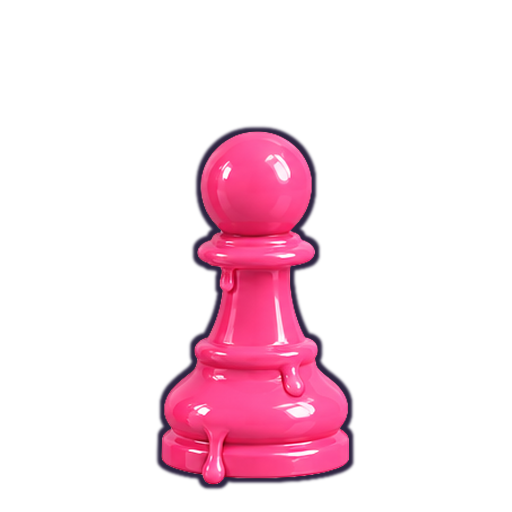
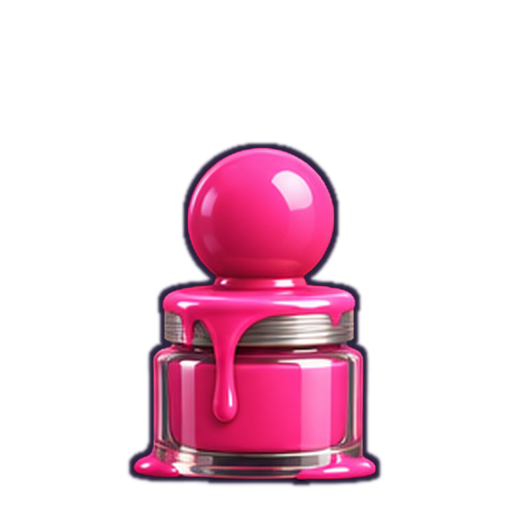
Swap in the Paint Supplies pieces
Alex picked the Paint Supplies look over the glossy toy pieces: a paint
tube king, paint bottle queen, paint can rook, brush bishop, roller
knight and paint pot pawn. Cut out from the ElevenLabs sheet with
transparent backgrounds, same ink rim and baseline as before, with a
little less overhang so wide pieces don't crowd the square above.

Claude-Session: https://claude.ai/code/session_01QR38i3U6tiDZZQVWzgcRB5

Changed region(s): [[0.25, 0.2188, 0.75, 0.9688]]

diff --git a/apps/mobile/App.tsx b/apps/mobile/App.tsx
@@ -16,7 +16,7 @@ const C = {
   dark: '#E6DDF7',
 };
 
-// Glossy vinyl toy pieces: lime for Slime (w), pink for Goo (b).
+// Paint Supplies pieces: lime for Slime (w), pink for Goo (b).
 const PIECE_ART = {
   w: {
     k: require('./assets/pieces/wking.png'),
@@ -250,7 +250,7 @@ const s = StyleSheet.create({
   target: { position: 'absolute', width: '30%', aspectRatio: 1, borderRadius: 999, backgroundColor: C.ink, opacity: 0.35 },
   targetCapture: { width: '86%', backgroundColor: 'transparent', borderWidth: 3, borderColor: C.ink, opacity: 0.5 },
   // The art overhangs the square upward a little, like a real piece standing on the board.
-  pieceBox: { position: 'absolute', left: '-14%', right: '-14%', top: '-34%', bottom: '2%' },
+  pieceBox: { position: 'absolute', left: '-10%', right: '-10%', top: '-24%', bottom: '2%' },
   pieceImg: { width: '100%', height: '100%' },
   pieceShadow: { position: 'absolute', bottom: '5%', width: '50%', height: '12%', borderRadius: 999, backgroundColor: C.ink, opacity: 0.22 },
   overlay: { ...fill, alignItems: 'center', justifyContent: 'center' },
